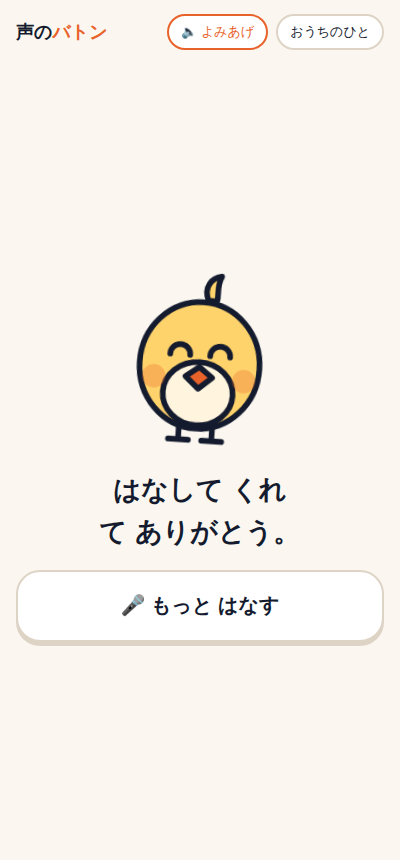
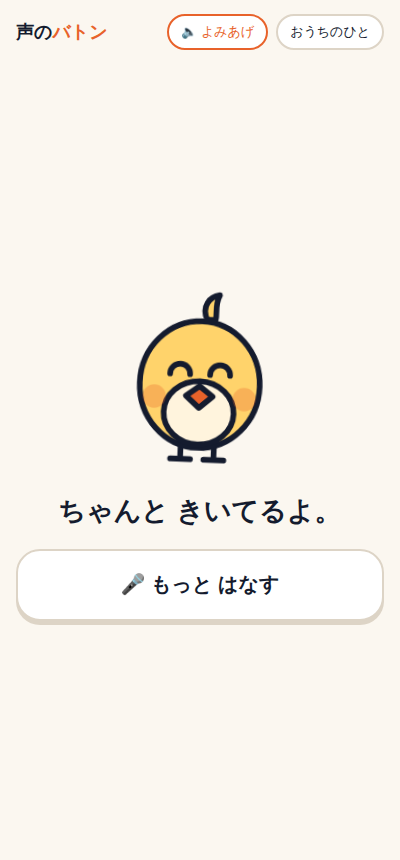
時間であいさつが変わる／親の質問をこえトリが預かる
おはよう・こんにちは・おかえり・こんばんは。そのあとに続く言葉は
時間でだいたい決まる、という指摘を仕組みにした。

- 時間帯であいさつと話題が変わる
  朝：ごはん／おてんき／ゆめ／たのしみ
  昼：きゅうしょく／そとあそび／べんきょう／ともだち／せんせい
  夕：きょうまでの8つ（おかえり）
  夜：きょう いちばん／ごはん／おふろ／おうち／あした
  朝に「かえりみち」を、夜に「きょうの たのしみ」を聞かない
- 親がこえトリに質問を預けられる（1日1回）
  おはなしの最後に「おうちのひとが、こう きいてるよ」と代わりに聞く
- 答えても、渡すかどうかは本人が決める。渡さなければ親に見えるのは
  「答えてくれました。ただし本人はまだ渡していません。中身は見えません」
  だけ。これが親・子・こえトリの三者構造の芯
- 新しい絵を7つ追加（ごはん／ゆめ／おてんき／たのしみ／きょういちばん／
  おふろ／あした）

E2Eで時間帯4つと親の質問の受け渡しを22項目、本流を40項目確認。

Claude-Session: https://claude.ai/code/session_01FDsueusesyAsHMPhH392Fy

Changed region(s): [[0.03, 0.3023, 0.96, 0.7558]]

diff --git a/index.html b/index.html
@@ -94,6 +94,9 @@ button:focus-visible{outline:3px solid var(--baton); outline-offset:3px}
 .card{background:var(--panel); border:1px solid var(--line); border-radius:20px; padding:16px}
 .q{background:var(--panel); border:2px dashed var(--line); border-radius:22px; padding:20px 18px; text-align:center}
 .q .qtext{font-family:var(--font-display); font-size:25px; font-weight:700; line-height:1.5; text-wrap:balance}
+.q .pq{display:inline-block; font-family:var(--font-display); font-weight:700; font-size:13px;
+  background:var(--calm); color:#fff; border-radius:999px; padding:3px 12px; margin-bottom:10px}
+.hello{font-family:var(--font-display); font-weight:900; font-size:34px; line-height:1.3}
 
 .steps{display:flex; gap:7px; justify-content:center; align-items:center}
 .steps i{width:11px; height:11px; border-radius:50%; background:var(--line)}
@@ -239,7 +242,8 @@ label.fl{display:block; font-size:13px; font-weight:700; letter-spacing:.06em; c
   <section class="screen on" id="s-home">
     <div class="center">
       <div id="homeArt"></div>
-      <div class="big">こえトリが きいてくれるよ</div>
+      <div class="hello" id="helloText">おかえり</div>
+      <div class="big" id="helloSub">きょうは どうだった？</div>
       <p class="sub" id="modeNote" hidden></p>
       <button class="act" id="goTalk"><span class="ico">🎤</span>おはなしする</button>
       <button class="act calm" id="goBox"><span class="ico">🧰</span>ことばの たからばこ</button>
@@ -282,7 +286,10 @@ label.fl{display:block; font-size:13px; font-weight:700; letter-spacing:.06em; c
   <section class="screen" id="s-talk">
     <div class="stack grow" style="justify-content:center">
       <div class="steps" id="steps1"></div>
-      <div class="q"><div class="qtext" id="qText">—</div></div>
+      <div class="q">
+        <div class="pq" id="fromParent" hidden>おうちのひとから</div>
+        <div class="qtext" id="qText">—</div>
+      </div>
       <div id="talkArt"></div>
       <div class="center" style="flex:0; gap:10px">
         <div class="hear" id="hearSign" hidden><span class="pip"></span>きいてるよ</div>
@@ -454,6 +461,18 @@ label.fl{display:block; font-size:13px; font-weight:700; letter-spacing:.06em; c
     </div>
 
     <div class="card stack">
+      <h2>こえトリに きいてほしいこと</h2>
+      <p class="sub" style="margin:0">こえトリが、おはなしの最後に代わりに聞きます。1日1回だけです。</p>
+      <input type="text" id="pqInput" placeholder="例：きょう、わすれもの なかった？">
+      <div class="row">
+        <button class="mini" id="savePq">あずける</button>
+        <button class="mini" id="clearPq">とりけす</button>
+      </div>
+      <div class="notice" id="pqStatus" hidden></div>
+      <p class="sub" style="margin:0">答えを渡すかどうかは、それでも本人が決めます。本人が渡さなければ、<b>答えたという事実だけ</b>が分かります。中身は見えません。</p>
+    </div>
+
+    <div class="card stack">
       <h2>こまったときの連絡先</h2>
       <p class="sub" style="margin:0">本人の「こまったとき」画面に出ます。つらい顔を選んだ日は、話し終わりにも自動で出ます。</p>
       <div><label class="fl" for="cName">なまえ</label><input type="text" id="cName" placeholder="例：ばあば"></div>
@@ -519,19 +538,55 @@ const TOPICS = [
     qs:["だれと かえった？","かえりみち、なにか あった？","それで、どうなったの？"] },
   { id:"ouchi", word:"おうち", lead:"おうちの はなし、きかせて",
     qs:["おうちで なにしてた？","だれと いた？","それで、どうなったの？"] },
+  { id:"gohan", word:"ごはん", lead:"ごはんの はなし、きかせて",
+    qs:["なに たべた？","だれと たべた？","いちばん おいしかったのは なに？"] },
+  { id:"yume", word:"ゆめ", lead:"ゆめの はなし、きかせて",
+    qs:["どんな ゆめ だった？","それで、どうなったの？","また みたい？"] },
+  { id:"tenki", word:"おてんき", lead:"そとを みてみよう",
+    qs:["きょうの おてんき、どう？","なにを きて いく？","そとで なにか したい？"] },
+  { id:"tanoshimi", word:"たのしみ", lead:"きょうの たのしみ、きかせて",
+    qs:["きょう、たのしみなこと なに？","だれと するの？","どんなふうに なったら いいな？"] },
+  { id:"ichiban", word:"きょう いちばん", lead:"きょうの いちばん、きかせて",
+    qs:["きょう いちばん よかったこと なに？","それで、どうなったの？","そのとき、なんて いった？"] },
+  { id:"ofuro", word:"おふろ", lead:"おふろの はなし、きかせて",
+    qs:["おふろ、どうだった？","だれと はいった？","なに はなした？"] },
+  { id:"ashita", word:"あした", lead:"あしたの はなし、きかせて",
+    qs:["あした、なにが ある？","たのしみ？ ちょっと いや？","どんなふうに したい？"] },
   { id:"hoka", word:"そのほか", lead:"きかせて",
     qs:["なにが あったの？","それで、どうなったの？","そのとき、なんて いった？"] }
 ];
 const TOPIC = {}; TOPICS.forEach(t => TOPIC[t.id] = t);
 const NODS = ["そっか。","うんうん。","ちゃんと きいてるよ。","はなして くれて ありがとう。"];
 
-// えらんだ絵の話題の中で、3つ順番に聞く。話題がわかっているので文がつながる。
-const QUESTIONS = [
-  () => topicQ(0), () => topicQ(1), () => topicQ(2)
-];
-function topicQ(i){
-  const t = TOPIC[(sess && sess.topic) || "hoka"] || TOPIC.hoka;
-  return t.qs[i];
+/* ═══ 時間で あいさつと 話題が かわる ═════════════════════════════
+   おはよう・こんにちは・おかえり・こんばんは。そのあとに続く言葉は時間でだいたい決まる。
+   朝に「かえりみち」を聞かない。夜に「きょうの たのしみ」を聞かない。 */
+const BANDS = {
+  asa:    { hello:"おはよう",    sub:"きょうが はじまるね",
+            topics:["gohan","tenki","yume","tanoshimi","hoka"] },
+  hiru:   { hello:"こんにちは",  sub:"いま、どんな かんじ？",
+            topics:["kyushoku","soto","benkyou","tomodachi","sensei","hoka"] },
+  yugata: { hello:"おかえり",    sub:"きょうは どうだった？",
+            topics:["kyushoku","soto","tomodachi","sensei","benkyou","kaeri","ouchi","hoka"] },
+  yoru:   { hello:"こんばんは",  sub:"きょうも おつかれさま",
+            topics:["ichiban","gohan","ofuro","ouchi","ashita","hoka"] }
+};
+function band(){
+  const h = new Date().getHours();
+  if (h >= 4  && h < 10) return "asa";
+  if (h >= 10 && h < 15) return "hiru";
+  if (h >= 15 && h < 19) return "yugata";
+  return "yoru";
+}
+function bandInfo(){ return BANDS[band()]; }
+
+/* おうちのひとから あずかった しつもん。こえトリが代わりに聞く。
+   答えを渡すかどうかは、それでも本人が決める。ここがこの製品の芯。 */
+function parentQuestion(){
+  const q = (LS.get("pq","") || "").trim();
+  if (!q) return "";
+  if (LS.get("pqDay","") === todayKey()) return "";   // 同じ日に二度は聞かない
+  return q;
 }
 
 /* ═══ 2. ほぞん ═══════════════════════════════════════════════════ */
@@ -688,6 +743,35 @@ const TOPIC_ART = {
     + '<path class="ln" d="M12 40L50 10l38 30"/>'
     + '<rect class="pn" x="41" y="46" width="18" height="22" rx="2"/>'
     + '<rect class="bl" x="20" y="46" width="13" height="12" rx="2"/>',
+  gohan:
+    '<path class="ln" d="M32 16q-4-6 0-11M50 13q-4-6 0-11M68 16q-4-6 0-11"/>'
+    + '<path class="ch" d="M16 34h68a34 28 0 0 1-68 0z"/>'
+    + '<path class="bl" d="M27 34h46a23 9 0 0 1-46 0z"/>'
+    + '<path class="ln" d="M12 34h76"/><path class="ln" d="M40 64h20"/>',
+  yume:
+    '<path class="bd" d="M50 4l6 13 14 2-10 9.5 2.5 14L50 36l-12.5 6.5 2.5-14-10-9.5 14-2z"/>'
+    + '<path class="pn" d="M28 70a14 14 0 0 1 2-27 19 19 0 0 1 36 4 12 12 0 0 1-2 23z"/>',
+  tenki:
+    '<circle class="bd" cx="40" cy="30" r="16"/>'
+    + '<path class="ln" d="M40 4v8M40 48v4M14 30h8M62 26h6M21 11l6 6M59 11l-6 6M21 49l6-6"/>'
+    + '<path class="pn" d="M48 70a11 11 0 0 1 2-21 15 15 0 0 1 28 3 10 10 0 0 1-2 18z"/>',
+  tanoshimi:
+    '<path class="ln" style="stroke:var(--baton);stroke-width:9" d="M14 64a36 36 0 0 1 72 0"/>'
+    + '<path class="ln" style="stroke:var(--bird);stroke-width:9" d="M23 64a27 27 0 0 1 54 0"/>'
+    + '<path class="ln" style="stroke:var(--house);stroke-width:9" d="M32 64a18 18 0 0 1 36 0"/>'
+    + '<path class="ln" d="M8 64h84"/>',
+  ichiban:
+    '<path class="ln" d="M34 8l11 20M66 8l-11 20"/>'
+    + '<circle class="bd" cx="50" cy="46" r="24"/>'
+    + '<path class="bk" d="M50 31l5 10.5 11.5 1.7-8.3 8 2 11.3L50 57.2 39.8 62.5l2-11.3-8.3-8L45 41.5z"/>',
+  ofuro:
+    '<path class="ln" d="M32 20q-5-7 0-13M52 17q-5-7 0-13"/>'
+    + '<path class="bl" d="M12 38h76v12a18 18 0 0 1-18 18H30a18 18 0 0 1-18-18z"/>'
+    + '<path class="ln" d="M8 38h84"/><path class="ln" d="M24 68v6M76 68v6"/>',
+  ashita:
+    '<path class="bd" d="M22 56a28 28 0 0 1 56 0z"/>'
+    + '<path class="ln" d="M8 56h84"/>'
+    + '<path class="ln" d="M50 8v10M20 20l7 8M80 20l-7 8M6 42h9M85 42h9"/>',
   hoka:
     '<circle class="bd" cx="50" cy="40" r="27"/>'
     + '<text class="qm" x="50" y="54">？</text>'
@@ -835,14 +919,14 @@ function startRecog(){
 function stopRecog(){ if (recog){ try{ recog.stop(); }catch(e){} recog = null; } }
 
 /* ═══ 7. おはなしの すすみかた ════════════════════════════════════ */
-let sess = null, stepIdx = 0, currentQ = "", quietSkip = false;
+let sess = null, stepIdx = 0, currentQ = "", quietSkip = false, fromParent = false;
 
 function todayKey(d){ d = d||new Date();
   return d.getFullYear()+"-"+String(d.getMonth()+1).padStart(2,"0")+"-"+String(d.getDate()).padStart(2,"0"); }
 function newSession(){
   sess = { id:"s"+Date.now()+Math.random().toString(36).slice(2,6), at:Date.now(), day:todayKey(),
-           turns:[], topic:null, feeling:null, handed:null, handedAt:null };
-  stepIdx = 0;
+           turns:[], topic:null, steps:[], feeling:null, handed:null, handedAt:null };
+  stepIdx = 0; fromParent = false;
 }
 function startTalk(){
   if (!micSupported()){ showBanner("このブラウザでは録音できません。iPhoneはSafari、AndroidはChromeで開いてください。"); return; }
@@ -852,7 +936,8 @@ function startTalk(){
   if (LS.get("micOK", false)) getMic();
 }
 function renderPick(){
-  $("#topics").innerHTML = TOPICS.map(t =>
+  const ids = bandInfo().topics;              // 時間帯に合う話題だけ出す
+  $("#topics").innerHTML = ids.map(id => TOPIC[id]).filter(Boolean).map(t =>
     '<button class="topic" data-t="'+t.id+'">'+topicArt(t.id)+'<span>'+t.word+'</span></button>').join("");
   $("#topics").querySelectorAll(".topic").forEach(b =>
     b.addEventListener("click", () => chooseTopic(b.dataset.t)));
@@ -860,11 +945,19 @@ function renderPick(){
 }
 function chooseTopic(id){
   sess.topic = id;
+  const t = TOPIC[id] || TOPIC.hoka;
+  sess.steps = t.qs.map(q => ({ q:q, fromParent:false }));
+  const pq = parentQuestion();
+  if (pq){                                   // おうちのひとの しつもんは さいごに あずかって きく
+    sess.steps.push({ q:pq, fromParent:true });
+    LS.set("pqDay", todayKey());
+  }
   stepIdx = 0;
   go("talk");
 }
+function steps(){ return (sess && sess.steps) ? sess.steps : []; }
 function renderSteps(){
-  const n = QUESTIONS.length + 1;      // 質問 ＋ かおえらび
+  const n = steps().length + 1;        // 質問 ＋ かおえらび
   let html = "";
   for (let i=0;i<n;i++){
     const cls = i<stepIdx ? "past" : (i===stepIdx ? "now" : "");
@@ -875,7 +968,9 @@ function renderSteps(){
 
 // 質問を読み上げてから、自動で聞きはじめる
 function runTalkStep(){
-  currentQ = QUESTIONS[Math.min(stepIdx, QUESTIONS.length-1)]();
+  const st = steps()[Math.min(stepIdx, steps().length-1)] || { q:"きかせて" };
+  currentQ = st.q;
+  fromParent = !!st.fromParent;
   $("#qText").textContent = currentQ;
   $("#talkArt").innerHTML = bird("wave","bob");
   renderSteps();
@@ -888,6 +983,8 @@ function runTalkStep(){
     const t = TOPIC[sess.topic];
     if (t) lead += t.word + "。" + t.lead + "。";   // えらんだ絵の名前を読み上げる＝言葉をおぼえる
   }
+  if (fromParent) lead = "おうちのひとが、こう きいてるよ。";
+  $("#fromParent").hidden = !fromParent;
   sayThen(lead + currentQ, () => { if (at === "talk") beginRecording(); });
 }
 function setTalkState(s){
@@ -934,14 +1031,18 @@ async function onRecorded(){
   }
   const type = (recorder && recorder.mimeType) || (chunks[0] && chunks[0].type) || "audio/webm";
   const blob = chunks.length ? new Blob(chunks, { type }) : null;
-  sess.turns.push({ q: currentQ, blob, mime:type, ms,
+  sess.turns.push({ q: currentQ, blob, mime:type, ms, fromParent: fromParent,
                     transcript: transcript.trim(), transcriptOk: recogWorked && !!transcript.trim() });
   await put(sess);                     // 話した時点で必ずのこす。渡すかどうかは別の話。
-  showAck(NODS[Math.floor(Math.random()*NODS.length)], "happy", advance, true);
+  // おうちのひとの しつもんに こたえたときは、第三者としての立ち位置をはっきり言う
+  const nod = fromParent
+    ? "おしえて くれて ありがとう。つたえるかは、あとで きめていいよ。"
+    : NODS[Math.floor(Math.random()*NODS.length)];
+  showAck(nod, "happy", advance, true);
 }
 function advance(){
   stepIdx++;
-  if (stepIdx >= QUESTIONS.length){ go("feel"); return; }
+  if (stepIdx >= steps().length){ go("feel"); return; }
   go("talk");
 }
 
@@ -977,7 +1078,7 @@ $("#qQuit").addEventListener("click", ()=>{
 });
 
 function renderFeel(){
-  stepIdx = QUESTIONS.length;
+  stepIdx = steps().length;
   renderSteps();
   $("#feels").innerHTML = FEELINGS.map(f =>
     '<button class="feel" data-f="'+f.id+'">'+head(f.face)+'<span>'+f.label+'</span></button>').join("");
@@ -992,7 +1093,7 @@ async function chooseFeel(id){
 }
 $("#feelSkip").addEventListener("click", ()=>{ sess.feeling = null; go("give"); });
 $("#moreTalk").addEventListener("click", ()=>{
-  stepIdx = QUESTIONS.length - 1;
+  stepIdx = Math.max(0, steps().length - 1);
   if (stream) go("talk"); else { go("mic"); if (LS.get("micOK",false)) getMic(); }
 });
 
@@ -1031,12 +1132,15 @@ function stepSeq(){
 /* ═══ 9. びょうが ═════════════════════════════════════════════════ */
 function mode(){ return LS.get("pmode","child"); }
 function homeSpeech(){
-  return mode()==="all"
-    ? "いま はなすことは ぜんぶ おうちのひとに とどきます。こえトリが きいてくれるよ"
-    : "こえトリが きいてくれるよ";
+  const b = bandInfo();
+  return (mode()==="all" ? "いま はなすことは ぜんぶ おうちのひとに とどきます。" : "")
+    + b.hello + "。" + b.sub;
 }
 function renderHome(){
-  $("#homeArt").innerHTML = bird("wave","bob");
+  const b = bandInfo();
+  $("#homeArt").innerHTML = bird(band()==="yoru" ? "sleep" : "wave", "bob");
+  $("#helloText").textContent = b.hello;
+  $("#helloSub").textContent = b.sub;
   const a = mode()==="all";
   $("#modeNote").hidden = !a;
   $("#modeNote").textContent = a ? "いま はなすことは ぜんぶ おうちのひとに とどきます。" : "";
@@ -1051,7 +1155,8 @@ function turnRow(t){
     el.appendChild(b);
   }
   const body = document.createElement("div"); body.className = "body";
-  const q = document.createElement("div"); q.className = "qq"; q.textContent = t.q;
+  const q = document.createElement("div"); q.className = "qq";
+  q.textContent = (t.fromParent ? "おうちのひとから：" : "") + t.q;
   const tx = document.createElement("div"); tx.className = "tx";
   tx.textContent = t.transcriptOk ? t.transcript : "（こえだけ・"+fmt(t.ms)+"）";
   body.appendChild(q); body.appendChild(tx);
@@ -1178,6 +1283,19 @@ async function renderParent(){
   $("#allNotice").hidden = m!=="all";
   $("#cName").value = LS.get("cName",""); $("#cTel").value = LS.get("cTel","");
 
+  // あずけた しつもんが どうなったか
+  const pq = (LS.get("pq","")||"").trim();
+  $("#pqInput").value = pq;
+  const st = $("#pqStatus");
+  if (!pq){ st.hidden = true; }
+  else {
+    const ans = rs.find(r => r.day===todayKey() && (r.turns||[]).some(t => t.fromParent));
+    if (!ans) st.textContent = "あずかりました。次のおはなしで、こえトリが代わりに聞きます。";
+    else if (ans.handed && ans.handed !== "no") st.textContent = "答えてくれました。下の「届いたおはなし」に入っています。";
+    else st.textContent = "答えてくれました。ただし本人はまだ渡していません。中身は見えません。";
+    st.hidden = false;
+  }
+
   const list = $("#parentList"); list.innerHTML = "";
   const visible = rs.filter(r => showAll || (r.handed && r.handed!=="no"));
   if (!visible.length){
@@ -1254,6 +1372,15 @@ $("#askMic").addEventListener("click", getMic);
 $("#micRetry").addEventListener("click", ()=>{ resetMicScreen(); getMic(); });
 document.querySelectorAll(".opt").forEach(o =>
   o.addEventListener("click", () => { LS.set("pmode", o.dataset.mode); renderParent(); }));
+$("#savePq").addEventListener("click", ()=>{
+  LS.set("pq", $("#pqInput").value.trim());
+  LS.set("pqDay", "");              // あずけ直したら、きょうもう一度聞ける
+  renderParent();
+});
+$("#clearPq").addEventListener("click", ()=>{
+  LS.set("pq", ""); LS.set("pqDay", "");
+  renderParent();
+});
 $("#saveContact").addEventListener("click", ()=>{
   LS.set("cName", $("#cName").value.trim()); LS.set("cTel", $("#cTel").value.trim());
   $("#savedMsg").hidden = false; setTimeout(()=>{ $("#savedMsg").hidden = true; }, 2000);
